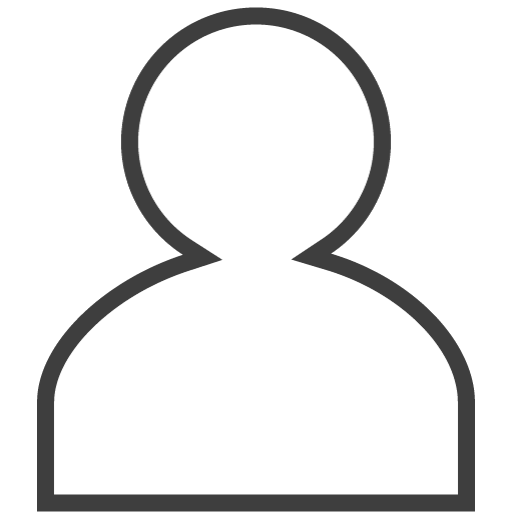
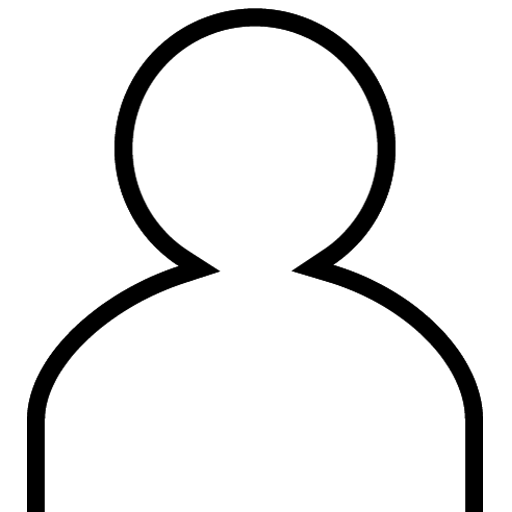
Correción de imagenes y ortografía

Changed region(s): [[0.0312, 0.0, 0.9688, 1.0]]

diff --git a/app.py b/app.py
@@ -75,13 +75,13 @@ def login():
     data = request.get_json()
     
     if not data:
-        return jsonify({"error": "Faltan datos"}), 400
+        return jsonify({"error": "Data is missing"}), 400
     
     mail = data.get('mail')
     password = data.get('password')
     
     if not mail or not password:
-        return jsonify({"error": "Correo y contraseña son requeridos"}), 400
+        return jsonify({"error": "Email and password are required"}), 400
     
     try:
         # 1. Autenticar con Supabase Auth
@@ -108,7 +108,7 @@ def login():
                         company_name = company.company_name
                 
                 return jsonify({
-                    "message": "Login exitoso (sistema legacy)",
+                    "message": "Successful login (sistema legacy)",
                     "user": {
                         "id": user.user_id,
                         "name": user.name,
@@ -126,7 +126,7 @@ def login():
         user = User.query.filter_by(mail=mail).first()
         
         if not user:
-            return jsonify({"error": "Usuario no encontrado en el sistema"}), 401
+            return jsonify({"error": "User not found in the system"}), 401
         
         # 3. Actualizar session_started a True
         user.session_started = True
@@ -140,7 +140,7 @@ def login():
                 company_name = company.company_name
         
         return jsonify({
-            "message": "Login exitoso",
+            "message": "Successful login",
             "user": {
                 "id": user.user_id,
                 "name": user.name,
@@ -168,7 +168,7 @@ def login():
                         company_name = company.company_name
                 
                 return jsonify({
-                    "message": "Login exitoso (fallback)",
+                    "message": "Successful login (fallback)",
                     "user": {
                         "id": user.user_id,
                         "name": user.name,
@@ -182,7 +182,7 @@ def login():
         except Exception as fallback_error:
             print(f"Error en fallback: {str(fallback_error)}")
         
-        return jsonify({"error": "Error en el servidor"}), 500
+        return jsonify({"error": "Error"}), 500
 
 @app.route('/api/register', methods=['POST'])
 def register():
@@ -199,7 +199,7 @@ def register():
     
     # Validar campos requeridos
     if not all([name, mail, password, company_name]):
-        return jsonify({"error": "Todos los campos son requeridos"}), 400
+        return jsonify({"error": "All fields are required"}), 400
     
     try:
         # 1. Verificar si el correo ya existe (case insensitive)
@@ -208,7 +208,7 @@ def register():
         ).first()
         
         if existing_user:
-            return jsonify({"error": "El correo electrónico ya está registrado"}), 400
+            return jsonify({"error": "The email address is already registered."}), 400
         
         # 2. Registrar en Supabase Auth
         try:
